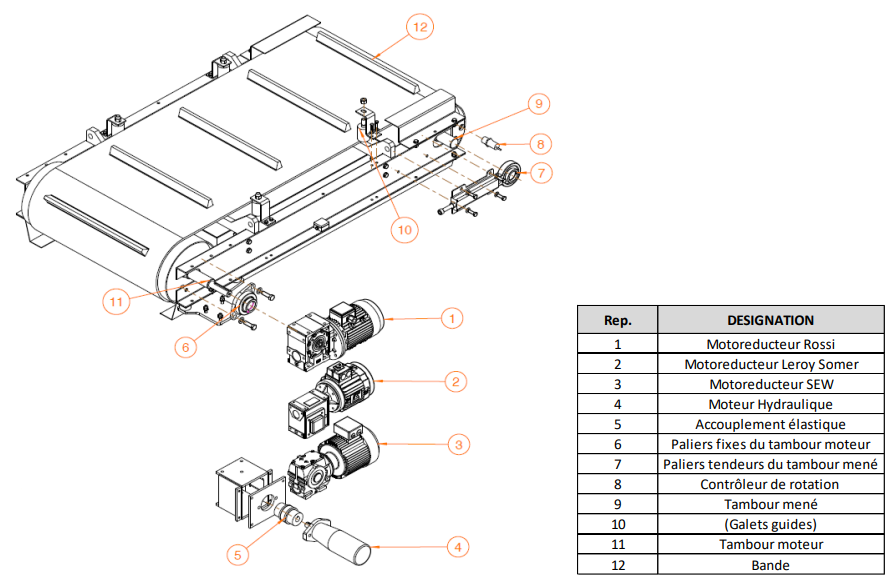
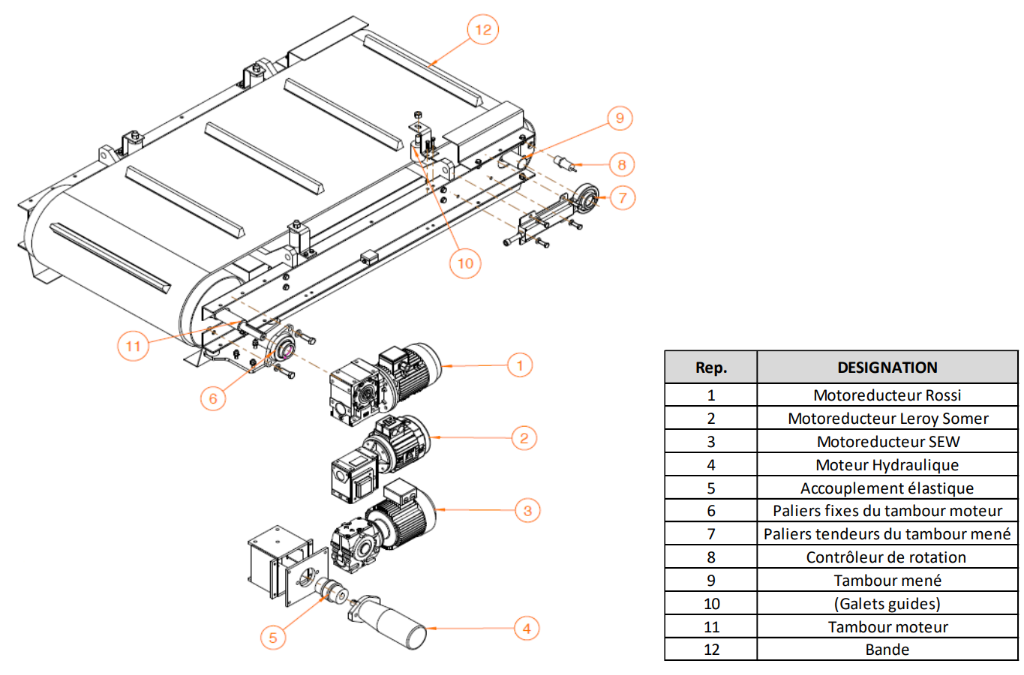
Replace OVAP diagrams with latest high-res screens and add detail caption

Changed region(s): [[0.0, 0.0, 0.6371, 0.9846], [0.6371, 0.4923, 1.0, 0.9846], [0.091, 0.4308, 0.1213, 0.4615]]

diff --git a/api/machine_edit.php b/api/machine_edit.php
@@ -1365,8 +1365,9 @@ foreach ($recoFreq as $rfk => $rfv) {
                         <?php if ($isOVAP): ?>
                             <img src="/assets/machines/ovap_diagram.png"
                                 style="max-width:100%; height:auto; display:block; margin:0 auto 15px auto;" alt="Schéma OVAP">
+                            <div style="font-size:11px; font-weight:bold; margin-bottom:5px; color:#d35400;">Détail Motorisation (Rep. 4 et 5) :</div>
                             <img src="/assets/machines/ovap_diagram_2.png"
-                                style="max-width:80%; height:auto; display:block; margin:0 auto 15px auto;" alt="Schéma Motorisation OVAP">
+                                style="max-width:85%; height:auto; display:block; margin:0 auto 20px auto; border:1px solid #ddd; padding:5px; background:white;" alt="Détail Motorisation OVAP">
                         <?php else: ?>
                             <img src="/assets/machines/ov_diagram.png"
                                 style="max-width:100%; height:auto; display:block; margin:0 auto 15px auto;" alt="Schéma OV">
